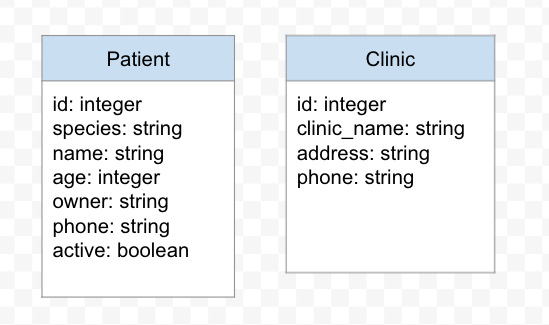
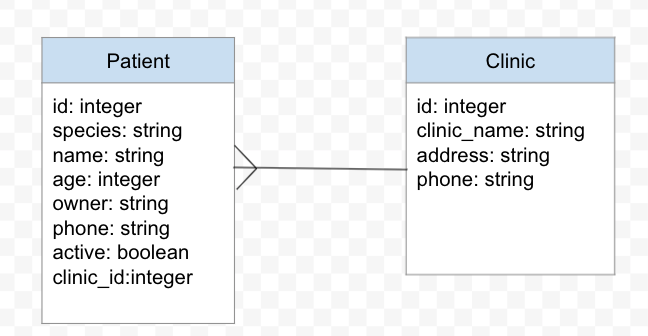
solution

diff --git a/phase-3/05-intro-to-active-record/db/schema.rb b/phase-3/05-intro-to-active-record/db/schema.rb
@@ -1,0 +1,31 @@
+# This file is auto-generated from the current state of the database. Instead
+# of editing this file, please use the migrations feature of Active Record to
+# incrementally modify your database, and then regenerate this schema definition.
+#
+# This file is the source Rails uses to define your schema when running `bin/rails
+# db:schema:load`. When creating a new database, `bin/rails db:schema:load` tends to
+# be faster and is potentially less error prone than running all of your
+# migrations from scratch. Old migrations may fail to apply correctly if those
+# migrations use external dependencies or application code.
+#
+# It's strongly recommended that you check this file into your version control system.
+
+ActiveRecord::Schema.define(version: 2021_11_30_192054) do
+
+  create_table "clinics", force: :cascade do |t|
+    t.string "clinic_name"
+    t.string "address"
+    t.string "phone"
+  end
+
+  create_table "patients", force: :cascade do |t|
+    t.string "species"
+    t.string "name"
+    t.integer "age"
+    t.string "owner"
+    t.string "phone"
+    t.boolean "active"
+    t.integer "clinic_id"
+  end
+
+end

diff --git a/phase-3/05-intro-to-active-record/app/models/clinic.rb b/phase-3/05-intro-to-active-record/app/models/clinic.rb
@@ -1,0 +1,19 @@
+class Clinic < ActiveRecord::Base
+    has_many :patients
+    #Create
+        #Clinic.new
+        #Clinic.create save and new
+    #Read
+        #Clinic.all pull all the items from your db table
+        #Clinic.first pulls the first item from db table
+        #Clinic.last pulls last items from you db table
+        #Clinic.find finds by the id
+        #Clinic.find_by finds by an attribute 
+    #Update
+        #c.save 
+        #c.update
+        #Clinic.update
+    #Delete
+        #c.delete
+        #Clinic.destroy_all
+end 

diff --git a/phase-3/05-intro-to-active-record/db/seeds.rb b/phase-3/05-intro-to-active-record/db/seeds.rb
@@ -1,0 +1,7 @@
+c1 = Clinic.create({clinic_name:'puppersRus', address:'5555 6th Seattle Wa 00000', phone:'(999)999-9999'})
+c2 = Clinic.create({clinic_name:'Seattle pets clinic', address:'5555 6th Seattle Wa 00000', phone:'(999)999-9999'})
+
+
+Patient.create({species:'cat', name:'rose', age:10, owner:'ix', phone:'9999999', active:true, clinic_id:c1.id})
+
+binding.pry

diff --git a/phase-3/05-intro-to-active-record/db/migrate/20211130192054_create_patients.rb b/phase-3/05-intro-to-active-record/db/migrate/20211130192054_create_patients.rb
@@ -1,0 +1,14 @@
+class CreatePatients < ActiveRecord::Migration[6.1]
+  def change
+    create_table :patients do |t|
+      t.string :species
+      t.string :name
+      t.integer :age
+      t.string :owner
+      t.string :phone
+      t.boolean :active
+      t.integer :clinic_id
+    end 
+  end
+end
+

diff --git a/phase-3/05-intro-to-active-record/db/migrate/20211130191531_create_clinics.rb b/phase-3/05-intro-to-active-record/db/migrate/20211130191531_create_clinics.rb
@@ -1,0 +1,9 @@
+class CreateClinics < ActiveRecord::Migration[6.1]
+  def change
+    create_table :clinics do |t|
+      t.string :clinic_name
+      t.string :address
+      t.string :phone
+    end 
+  end
+end

diff --git a/phase-3/05-intro-to-active-record/app/models/patient.rb b/phase-3/05-intro-to-active-record/app/models/patient.rb
@@ -1,0 +1,3 @@
+class Patient < ActiveRecord::Base
+    belongs_to :clinic
+end 
